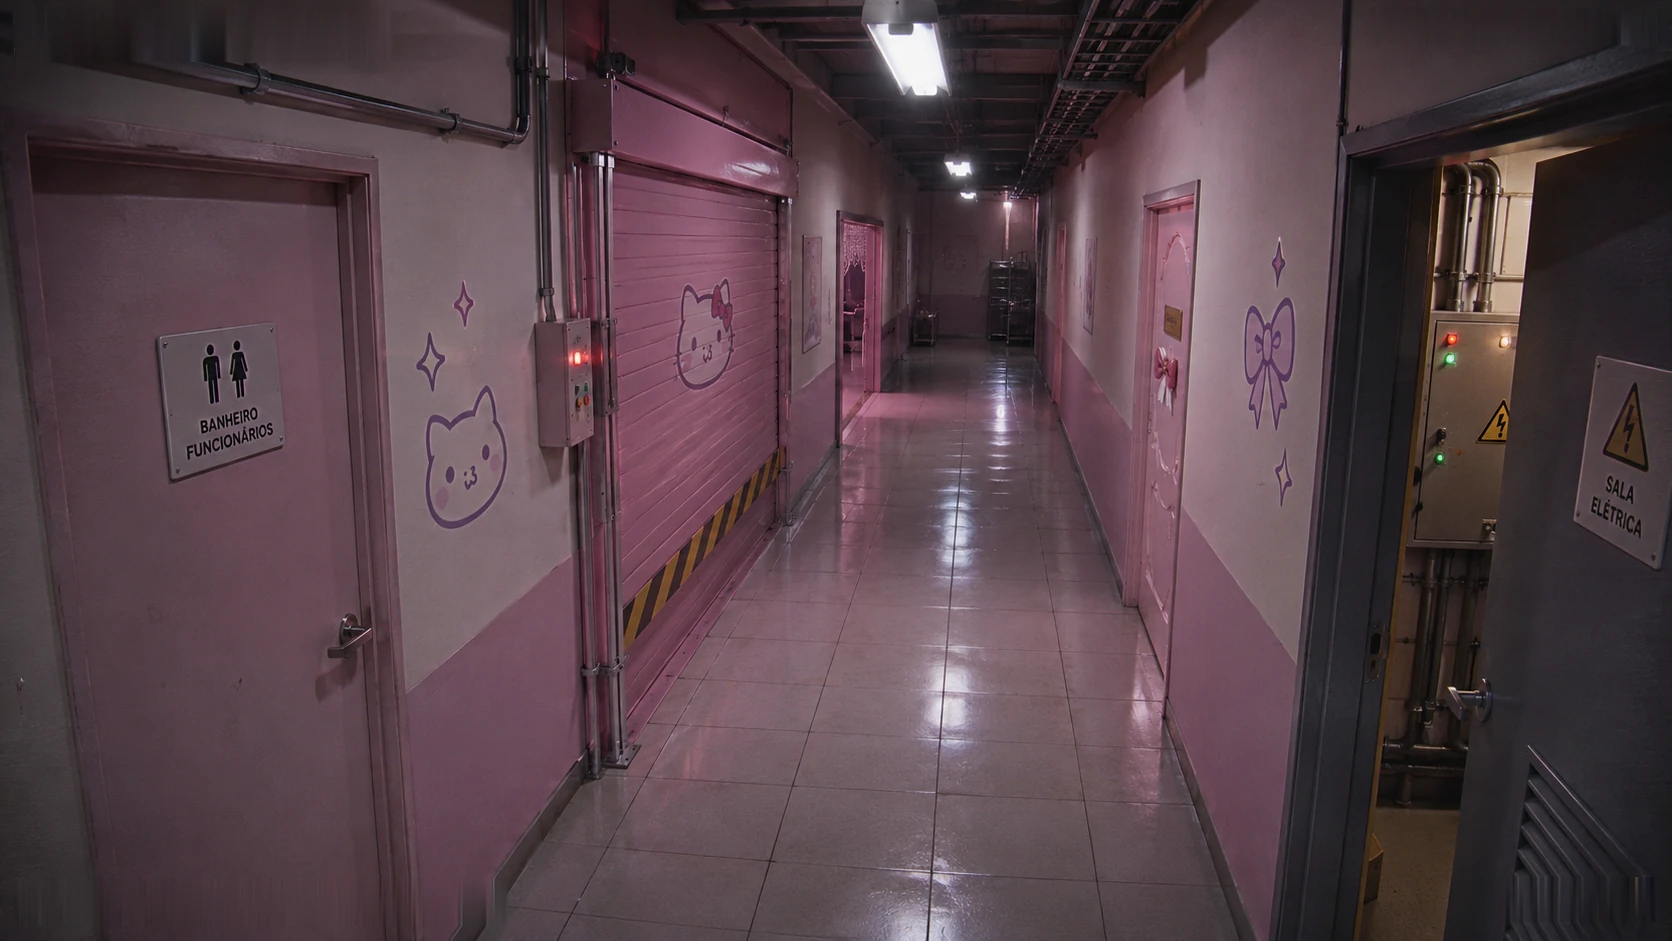
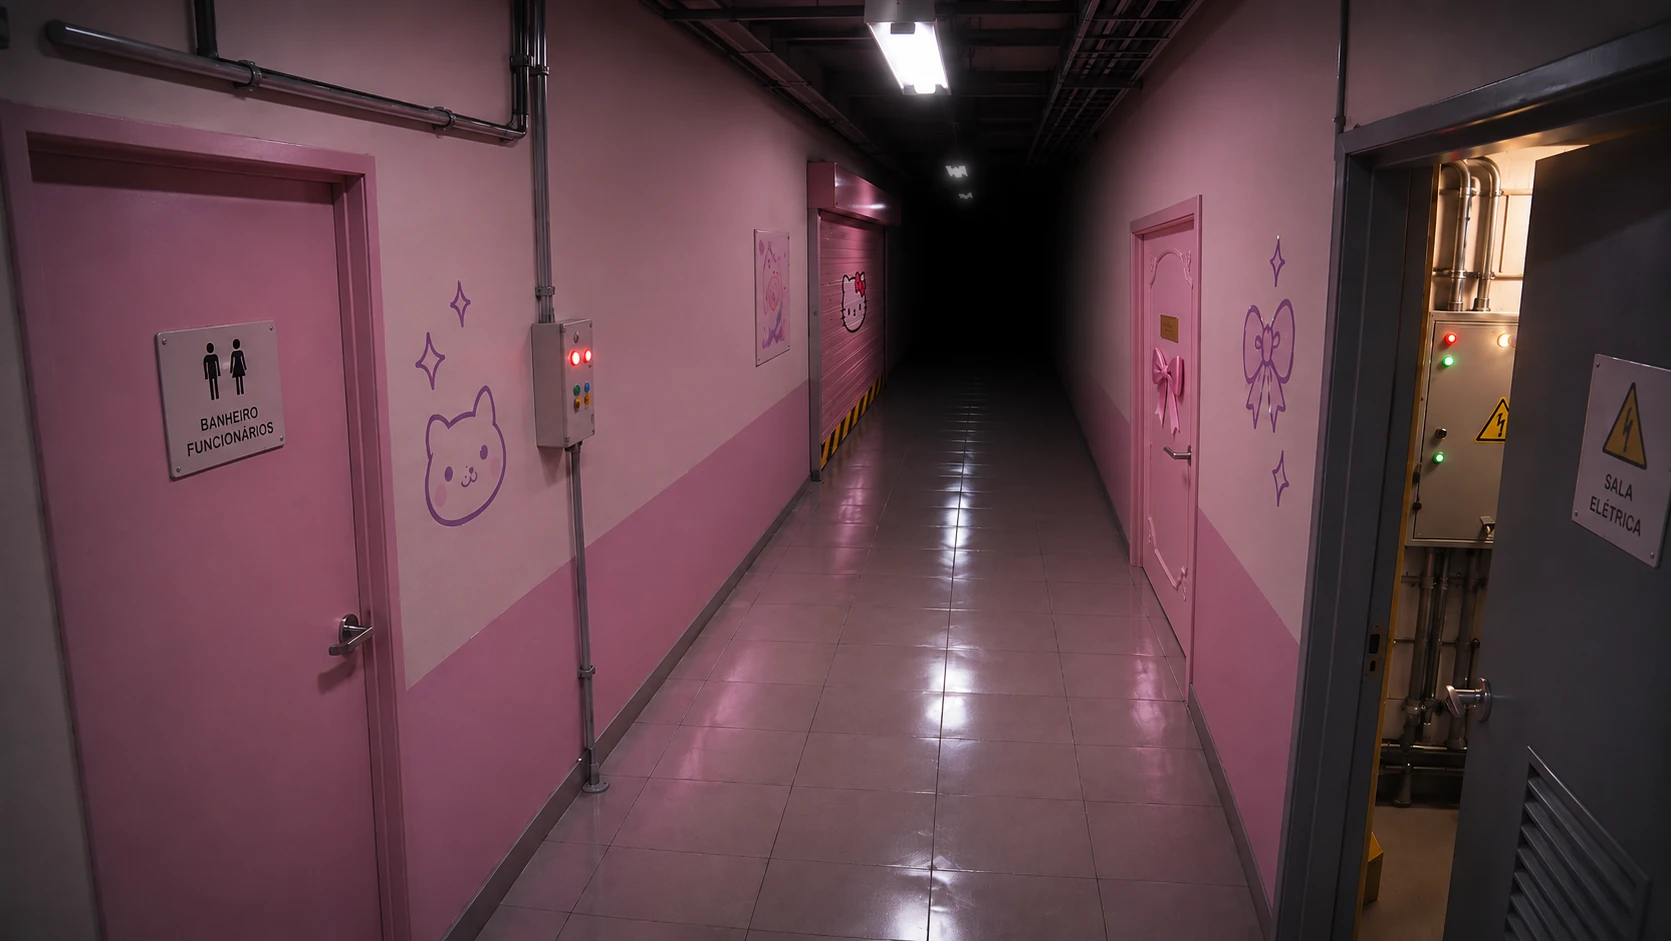
melhorias

diff --git a/src/main.js b/src/main.js
@@ -1,6 +1,7 @@
 (() => {
 'use strict';
 const { CAMERAS, OFFICE, makeCameraMap, SoundEngine } = window.NathGame;
+const stageCamera = CAMERAS.find(cam => cam.id === 'CAM03');
 
 // A primeira versão funciona como site estático: sem build, sem servidor de jogo e sem backend.
 const $ = selector => document.querySelector(selector);
@@ -30,7 +31,7 @@ function playSound(effect) {
   else audioReady?.then(enabled => { if (enabled) sound[effect](); });
 }
 const state = {
-  mode: 'office', cameraIndex: 0, elapsed: 0,
+  mode: 'office', cameraIndex: 0, stageState: 'vazia', elapsed: 0,
   complete: false, flashlight: false, pan: 0, targetPan: 0,
   dragging: false, pointerX: null, lastFrame: performance.now()
 };
@@ -48,7 +49,7 @@ function announce(message) {
 
 function preloadCamera(cam) {
   if (!cam?.image) return;
-  const sources = cam.gateStateImages ? Object.values(cam.gateStateImages.images) : [cam.image];
+  const sources = cam.gateStateImages ? Object.values(cam.gateStateImages.images) : [cameraImage(cam)];
   preloadImages(sources);
 }
 
@@ -100,9 +101,19 @@ function showTechnical(cam) {
 
 function cameraImage(cam) {
   const views = cam.gateStateImages;
-  if (!views) return cam.image;
+  if (!views) return cam.stageStateImages?.[state.stageState] ?? cam.image;
   const key = views.gates.map(id => map.isGateClosed(id) ? 'closed' : 'open').join('-');
   return views.images[key] ?? cam.image;
+}
+
+// Seleção explícita para o código do jogo. Use "vazia" para restaurar a imagem padrão.
+function setCam03StageState(key) {
+  if (typeof key !== 'string' || (key !== 'vazia' && !Object.hasOwn(stageCamera.stageStateImages, key))) {
+    return false;
+  }
+  state.stageState = key;
+  if (CAMERAS[state.cameraIndex] === stageCamera) updateCameraFeed(stageCamera);
+  return true;
 }
 
 function updateCameraFeed(cam) {
@@ -311,6 +322,7 @@ const resizeObserver = new ResizeObserver(() => {
 resizeObserver.observe(dom.game);
 
 // The site opens directly inside the office: no menu or splash screen.
+window.NathGame.setCam03StageState = setCam03StageState;
 changeCamera(CAMERAS[0].id);
 updateOfficeView();
 preloadImages(Object.values(OFFICE.images));

diff --git a/src/data/game-data.js b/src/data/game-data.js
@@ -39,6 +39,15 @@ const CAMERAS = [
     "angle": 24,
     "fov": 92,
     "image": "./public/images/cameras/CAM03.webp",
+    "stageStateImages": {
+      "original": "./public/images/cameras/states/CAM03-original.png",
+      "yandere": "./public/images/cameras/states/CAM03-yandere.png",
+      "gotica": "./public/images/cameras/states/CAM03-gotica.png",
+      "original-yandere": "./public/images/cameras/states/CAM03-original-yandere.png",
+      "original-gotica": "./public/images/cameras/states/CAM03-original-gotica.png",
+      "yandere-gotica": "./public/images/cameras/states/CAM03-yandere-gotica.png",
+      "todas": "./public/images/cameras/states/CAM03-todas.png"
+    },
     "technical": "./public/reference/cameras/CAM03_visao.png",
     "renderAvailable": true
   },
@@ -152,11 +161,11 @@ const CAMERAS = [
   {
     "id": "CAM11",
     "number": 11,
-    "name": "Corredor • Oeste",
-    "room": "corredor_servico",
-    "x": 15.2,
-    "y": 22.28,
-    "angle": 135,
+    "name": "Retirada de Pedidos",
+    "room": "retirada",
+    "x": 11.55,
+    "y": 25.15,
+    "angle": 68,
     "fov": 88,
     "image": "./public/images/cameras/CAM11.webp",
     "technical": "./public/reference/cameras/CAM11_visao.png",

diff --git a/scripts/compose_cam03.py b/scripts/compose_cam03.py
@@ -1,0 +1,39 @@
+"""Regenere as seis variantes parciais com python scripts/compose_cam03.py (Pillow)."""
+
+from itertools import combinations
+from pathlib import Path
+
+from PIL import Image
+
+
+IMAGES = Path(__file__).resolve().parents[1] / "public" / "images"
+STATES = IMAGES / "cameras" / "states"
+STAGE = IMAGES / "animatronics" / "stage"
+CHARACTERS = ("original", "yandere", "gotica")
+
+
+def main():
+    with Image.open(STATES / "CAM03-todas.png") as source:
+        trio = source.convert("RGBA")
+
+    removals = {}
+    for character in CHARACTERS:
+        path = STAGE / f"sem-{character}.png"
+        with Image.open(path) as patch:
+            if patch.mode != "RGBA" or patch.size != trio.size:
+                raise ValueError(f"{path.name} deve ser RGBA e ter o tamanho da imagem do trio.")
+            removals[character] = patch.copy()
+
+    # Cada camada cobre só a personagem ausente e o seu reflexo.
+    for count in (1, 2):
+        for group in combinations(CHARACTERS, count):
+            frame = trio.copy()
+            for character in CHARACTERS:
+                if character not in group:
+                    frame.alpha_composite(removals[character])
+            name = "-".join(group)
+            frame.convert("RGB").save(STATES / f"CAM03-{name}.png", optimize=True)
+
+
+if __name__ == "__main__":
+    main()

diff --git a/README.md b/README.md
@@ -71,7 +71,7 @@ A área do jogo tem largura máxima de 16:9, centralizada sobre fundo preto. Mon
 |---|---|---|
 | CAM01 | Lojinha | Cena 3D final |
 | CAM02 | Recepção | Cena 3D final |
-| CAM03 | Salão principal, virada para o palco | Nova cena do palco |
+| CAM03 | Salão principal, virada para o palco | Palco vazio e sete variantes com as Nathzinhas |
 | CAM04 | Salão principal, parede oposta | Portão sul G08 aberto ou fechado |
 | CAM05 | VIP 1 rosa | Quatro estados visuais dos portões G04/G05 |
 | CAM06 | VIP 2 lavanda | Cena 3D final |
@@ -79,7 +79,7 @@ A área do jogo tem largura máxima de 16:9, centralizada sobre fundo preto. Mon
 | CAM08 | Estoque | Cena 3D 4K |
 | CAM09 | Área de serviço | Cena da sala técnica |
 | CAM10 | Cozinha | Cena 3D final |
-| CAM11 | Corredor de serviço, oeste | Cena 3D do corredor de pedidos/cozinha |
+| CAM11 | Área de retirada | Balcão de retirada de pedidos |
 | CAM12 | Corredor de serviço, leste | Cena 3D do corredor da retaguarda |
 
 As 12 câmeras têm cenas próprias, com `CAM01.webp` a `CAM12.webp` na pasta `public/images/cameras/` e os PNG mestres numerados em `originals/`. As plantas técnicas continuam disponíveis como fallback. O manifesto V8 é um registro histórico, anterior à substituição da arte do palco e à inclusão da CAM04 e CAM09.
